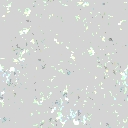
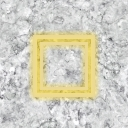
Made solution clearer
Also increased torch radius when showing solution

diff --git a/js/maze.js b/js/maze.js
@@ -33,7 +33,7 @@ const OBJECTIVE_CELL = "objective";
 const KRUSKAL_MIN_THRESHOLD = 0.4;
 const MAZE_DIMENSION_MAX = 125; // in cells
 const MAZE_DIMENSION_MIN_PERCENT = 0.20;
-const TIME_TO_SHOW_SOLUTION = 20000; // in ms
+const TIME_TO_SHOW_SOLUTION = 14000; // in ms
 const YARN_TRADE_PERCENT_OF_ORIGINAL = 0.2;
 
 // Quality of life and rendering constants
@@ -49,8 +49,9 @@ const TORCH_RADIUS_LOWER = 0.55;
 const TORCH_RADIUS_UPPER = 0.80;
 const TORCH_FLICKER_FRAMES_LOWER = 9;
 const TORCH_FLICKER_FRAMES_UPPER = 19;
-const INNER_TORCH_MULTIPLIER = 1/10.0;
-const OUTER_TORCH_MULTIPLIER = 1/2.2;
+const INNER_TORCH_MULTIPLIER = 0.1;
+const OUTER_TORCH_MULTIPLIER = 0.45;
+const OUTER_TORCH_MULTIPLIER_HINT = 0.5;
 
 // Theseus animation constants
 const THESEUS_ANIMATION_TICKS_PER_FRAME = CELL_LENGTH/4;
@@ -433,10 +434,10 @@ function drawLightingEffects() {
     gradient = ctx.createRadialGradient(
         gradX,
         gradY,
-        canvas.height*INNER_TORCH_MULTIPLIER,
+        canvas.height * INNER_TORCH_MULTIPLIER,
         gradX,
         gradY,
-        canvas.height*OUTER_TORCH_MULTIPLIER
+        canvas.height * (showSolution ? OUTER_TORCH_MULTIPLIER_HINT : OUTER_TORCH_MULTIPLIER)
     );
     gradient.addColorStop(0, "rgba(248, 195, 119, 0.25)");
 
@@ -743,9 +744,13 @@ function tradeYarn() {
     else if (showSolution)
         setMessage("The path is already revealed. For now, at least...");
     else {
+        setMessage("The solution is revealed! I must make haste.");
         yarn -= yarnTradeAmount;
         showSolution = true;
-        setTimeout(function() {showSolution = false;}, TIME_TO_SHOW_SOLUTION);
+        setTimeout(function() {
+            showSolution = false;
+            setMessage("That was short-lived.");
+        }, TIME_TO_SHOW_SOLUTION);
     }
 }
 
